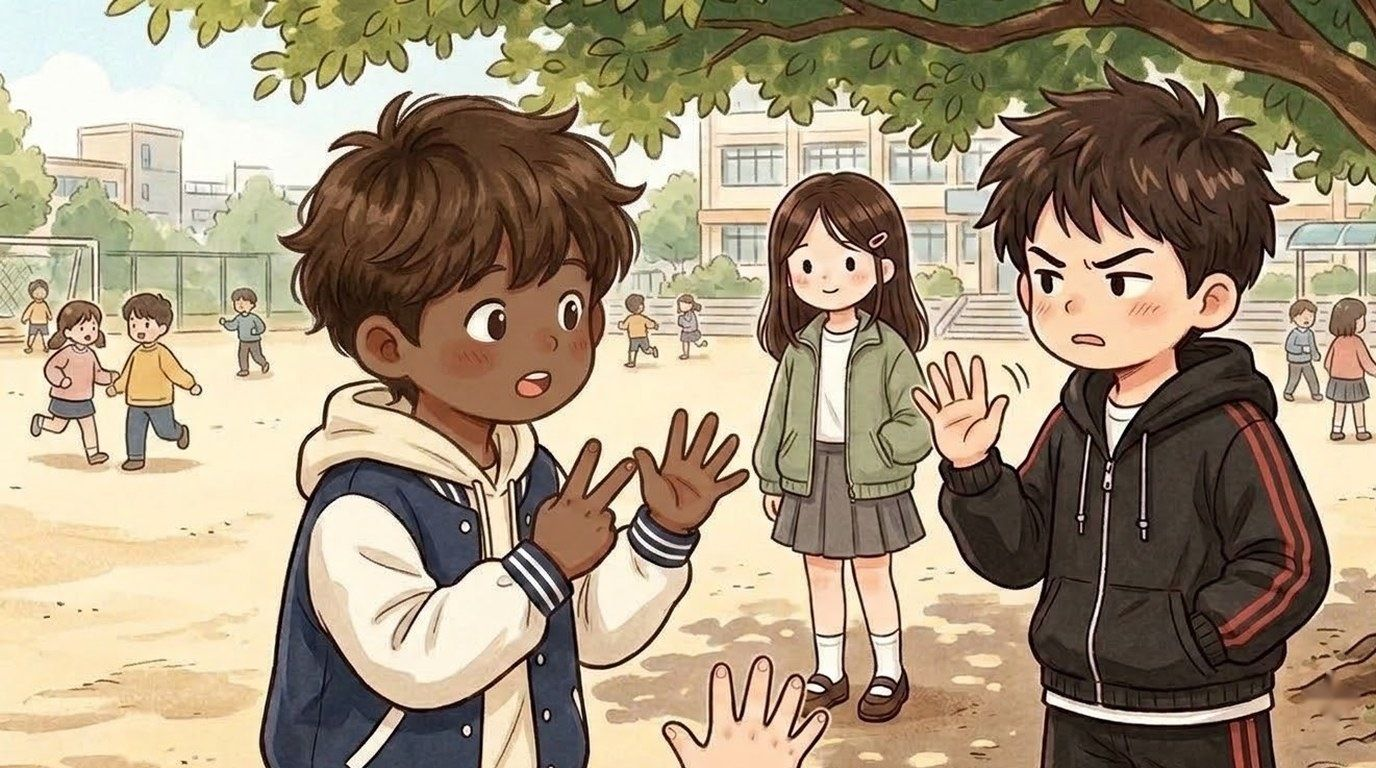
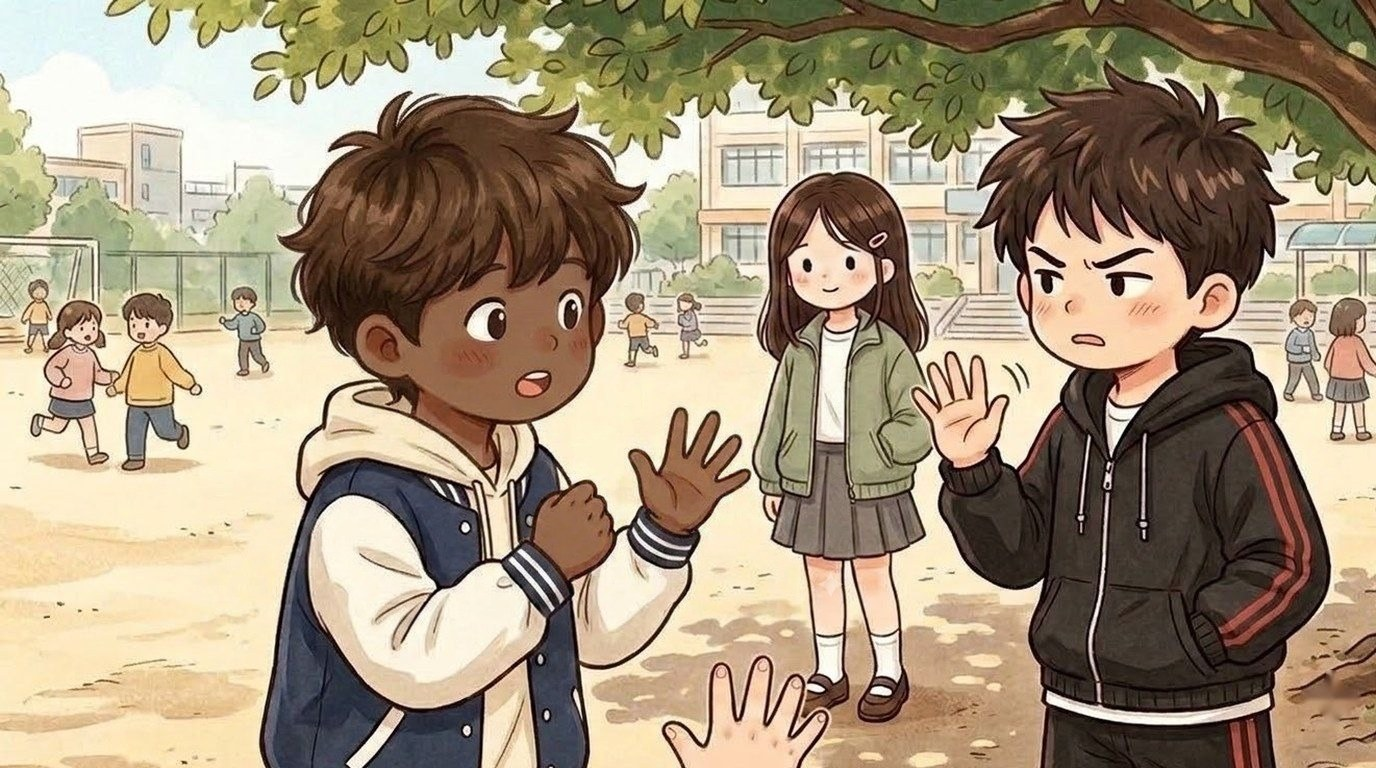
Seah 01b: Jiho counts to five on one open hand, the other hand a fist (was seven fingers; owner's note) (BUILD 1112180013)

diff --git a/index.html b/index.html
@@ -119,14 +119,14 @@ body,button{word-break:keep-all;overflow-wrap:break-word}
 <div id="fader"></div>
 <script>
 // same address, newest version: if the page this phone has kept is older than the one online, fetch the new one and reopen
-const BUILD='1112161123';
+const BUILD='1112180013';
 try{fetch(location.pathname,{cache:'no-store'}).then(r=>r.text()).then(t=>{const m=t.match(/const BUILD='(\d+)'/);if(m&&m[1]!==BUILD&&sessionStorage.getItem('upd')!==m[1]){sessionStorage.setItem('upd',m[1]);fetch(location.pathname,{cache:'reload'}).then(()=>location.reload())}}).catch(()=>{})}catch(e){}
 </script>
-<script src="i18n.js?v=1112161123"></script>
-<script src="i18n_prologue_v2.js?v=1112161123"></script>
-<script src="day2/i18n_engine.js?v=1112161123"></script>
-<script src="day2/data.js?v=1112161123"></script>
-<script src="day3/data.js?v=1112161123"></script>
+<script src="i18n.js?v=1112180013"></script>
+<script src="i18n_prologue_v2.js?v=1112180013"></script>
+<script src="day2/i18n_engine.js?v=1112180013"></script>
+<script src="day2/data.js?v=1112180013"></script>
+<script src="day3/data.js?v=1112180013"></script>
 <script>
 // ---------- data ----------
 const MW=1672,MH=941,KID=180;
@@ -183,15 +183,16 @@ let LANG='id',UI='ko',W='';
 // tr: Korean source line -> line in the player's language, with {w} (taught word) and {L} (taught language) filled in
 // a line can end with a hidden scene mark, {~toparent} etc.: the same Korean said in a scene that needs its own translation (진짜? to Mom vs to a friend).
 // The mark is never shown; a marked line with no translation of its own falls back to the unmarked one.
-function tr(s){if(s==null)return s;const s0=typeof s==='string'&&s.indexOf('{~')>=0?s.replace(/\{~[a-z]+\}/g,''):s;let t=UI==='ko'?s0:((window.T&&T[UI]&&(T[UI][s]??T[UI][s0]))??s0);if(typeof t==='string'&&t.indexOf('{~')>=0)t=t.replace(/\{~[a-z]+\}/g,'');if(UI!=='ko'&&t!==s0&&typeof t==='string')t=t.replace(/\{(m|d|w|@[a-z_]+)\|[^}]*\}/g,'{$1}');// a Korean particle ({@k|을}) left in a translation is dropped
+function tr(s){if(s==null)return s;const s0=typeof s==='string'&&s.indexOf('{~')>=0?s.replace(/\{~[a-z]+\}/g,''):s;let G=null;try{G=window.T&&T[UI+(HERO==='hero_m'?'_m':'_f')]}catch(e){}// (11/12 owner) a line whose wording depends on the hero being a boy or a girl has its own translation in T.<lang>_m / T.<lang>_f; it wins over T.<lang>
+ let t=UI==='ko'?s0:((G&&(G[s]??G[s0]))??(window.T&&T[UI]&&(T[UI][s]??T[UI][s0]))??s0);if(typeof t==='string'&&t.indexOf('{~')>=0)t=t.replace(/\{~[a-z]+\}/g,'');if(UI!=='ko'&&t!==s0&&typeof t==='string')t=t.replace(/\{(m|d|w|@[a-z_]+)\|[^}]*\}/g,'{$1}');// a Korean particle ({@k|을}) left in a translation is dropped
  const L=UI==='ko'?LANGS[LANG].name:((T[UI]&&T[UI]['한국어'])||'Korean');return oneWord(t).replace(/\{L\}/g,L)}
 // taught words in a line: a {@key}/{w}/{m} shows in the learned language when it is one of today's mission words (TEACH: every find of the scene
 // being played, the morning, the review) or a word already learned (FOUND); a word taught on a later day shows in the player's own language
 // (Korean: the noun, particle fixed). Every word shown in the learned language is heard, one after another.
 let TEACH=[],LASTW=[],LINEW=[];
 function oneWord(t){const ok=k=>(typeof FOUND!=='undefined'&&FOUND.has(k))||(TEACH||[]).includes(k)||(typeof FIND!=='undefined'&&FIND===k);LASTW=[];
- // English screen: a plural s written after a slot ({@pencil}s) is dropped when the slot shows the Korean word (연필, not 연필s)
- if(UI==='en')t=t.replace(/\{(@[a-z_]+|w|m|d)\}s(?![A-Za-z])/g,(m0,g)=>ok(g==='w'?'notebook':g==='d'?'dad':g==='m'?'mom':g.slice(1))?'{'+g+'}':m0);
+ // English screen: a plural s / es written after a slot ({@pencil}s, {@box}es) is dropped when the slot shows the Korean word (연필, not 연필s)
+ if(UI==='en')t=t.replace(/\{(@[a-z_]+|w|m|d)\}(?:es|s)(?![A-Za-z])/g,(m0,g)=>ok(g==='w'?'notebook':g==='d'?'dad':g==='m'?'mom':g.slice(1))?'{'+g+'}':m0);
  return t.replace(/\{@([a-z_]+)\}|\{w\}|\{m\}|\{d\}/g,(m0,k0)=>{const k=k0||(m0==='{w}'?'notebook':m0==='{d}'?'dad':'mom');if(ok(k)){if(!LASTW.includes(k))LASTW.push(k);return k==='notebook'?(W||LANGS[LANG].words.notebook):LANGS[LANG].words[k]||k}
   const w=(LANGS[UI]&&LANGS[UI].words[k])||LANGS.ko.words[k]||k;return UI==='ko'?w+'\u0000':w}).replace(/([가-힣])\u0000(으로|로|은|는|을|를|이|가|과|와|이었|였)(?![가-힣])|([가-힣])\u0000(으로|로|이었|였)/g,(m,a,p,a2,p2)=>{a=a||a2;p=p||p2;
   const c=a.charCodeAt(0)-0xAC00,jong=c%28,J={'으로':['으로','로'],'로':['으로','로'],'은':['은','는'],'는':['은','는'],'을':['을','를'],'를':['을','를'],'이':['이','가'],'가':['이','가'],'과':['과','와'],'와':['과','와'],'이었':['이었','였'],'였':['이었','였']}[p];
@@ -573,37 +574,37 @@ function pickHero(){const m=document.getElementById('modal'),c=document.getEleme
  c.innerHTML=`<h2>${tr('전학생 반장되기')}</h2><p>${tr('한국말이 아직 서툰 전학생,<br>반장 선거에 나가다.')}</p><p style="margin-top:14px">${tr('누구로 할까요?')}</p>${(()=>{const s=loadSave();return s&&s.day>=2&&s.mode===UI+'-'+LANG?`<p><button class="big" id="cont">${tr('{n}일차부터 이어 하기').replace('{n}',s.day)}</button></p>`:''})()}<div class="pick heroes"><button data-h="hero_f"><img src="faces/hero_f_smile.jpg" alt="여자 주인공">${heroName(1)}</button><button data-h="hero_m"><img src="faces/hero_m_smile.jpg" alt="남자 주인공">${heroName(0)}</button></div>`;
  m.classList.add('on');{const cb=document.getElementById('cont');if(cb)cb.onclick=()=>{const s=loadSave();HERO=s.hero;Object.assign(HEART,s.heart||{});(s.found||[]).forEach(k=>FOUND.add(k));HEART_D1={...HEART};chime();(typeof contGame==='function'?contGame(s):startDay(Math.min(s.day,Object.keys(window.D3||{}).length?3:2)))}}c.querySelectorAll('.pick button').forEach(b=>b.onclick=()=>{HERO=b.dataset.h;m.classList.remove('on');chime();bgm('day');load('home_am');say([['nar','','이사 온 다음 날 아침. 아직 풀지 못한 상자들이 쌓여 있다.'],['think','sad','(오늘부터 새 학교야. 여기 말도 아직 서툰데…….)'],['think','smile','({m}한테 인사하고 학교 가야지.)']],morning)})}
 </script>
-<script src="day2/engine.js?v=1112161123"></script>
-<script src="day2/ep_minho.js?v=1112161123"></script>
-<script src="day2/meet.js?v=1112161123"></script>
-<script src="day2/ep_sua.js?v=1112161123"></script>
-<script src="day2/ep_hangyeol.js?v=1112161123"></script>
-<script src="day2/ep_siwoo.js?v=1112161123"></script>
-<script src="day2/ep_haram.js?v=1112161123"></script>
-<script src="day2/ep_jiho.js?v=1112161123"></script>
-<script src="day2/ep_hyeeun.js?v=1112161123"></script>
-<script src="day2/ep_haneul.js?v=1112161123"></script>
-<script src="day2/ep_junho.js?v=1112161123"></script>
-<script src="day2/ep_yuna.js?v=1112161123"></script>
-<script src="day2/ep_yena.js?v=1112161123"></script>
-<script src="day2/ep_haeun.js?v=1112161123"></script>
-<script src="day2/ep_youngmin.js?v=1112161123"></script>
-<script src="day2/ep_seah.js?v=1112161123"></script>
-<script src="day2/ep_jihoon.js?v=1112161123"></script>
-<script src="words_ja_ru.js?v=1112161123"></script>
-<script src="day2/mybag.js?v=1112161123"></script>
-<script src="day2/wordpics.js?v=1112161123"></script>
-<script src="day2/spots.js?v=1112161123"></script>
-<script src="day2/textfit.js?v=1112161123"></script>
-<script src="day2/tester.js?v=1112161123"></script>
-<script src="day2/ux.js?v=1112161123"></script>
-<script src="day2/tapword.js?v=1112161123"></script>
-<script src="day2/review.js?v=1112161123"></script>
-<script src="day2/plane.js?v=1112161123"></script>
-<script src="day2/bubble.js?v=1112161123"></script>
-<script src="day2/ep_ending.js?v=1112161123"></script>
-<script src="day2/ending.js?v=1112161123"></script>
-<script src="day2/stats.js?v=1112161123"></script>
+<script src="day2/engine.js?v=1112180013"></script>
+<script src="day2/ep_minho.js?v=1112180013"></script>
+<script src="day2/meet.js?v=1112180013"></script>
+<script src="day2/ep_sua.js?v=1112180013"></script>
+<script src="day2/ep_hangyeol.js?v=1112180013"></script>
+<script src="day2/ep_siwoo.js?v=1112180013"></script>
+<script src="day2/ep_haram.js?v=1112180013"></script>
+<script src="day2/ep_jiho.js?v=1112180013"></script>
+<script src="day2/ep_hyeeun.js?v=1112180013"></script>
+<script src="day2/ep_haneul.js?v=1112180013"></script>
+<script src="day2/ep_junho.js?v=1112180013"></script>
+<script src="day2/ep_yuna.js?v=1112180013"></script>
+<script src="day2/ep_yena.js?v=1112180013"></script>
+<script src="day2/ep_haeun.js?v=1112180013"></script>
+<script src="day2/ep_youngmin.js?v=1112180013"></script>
+<script src="day2/ep_seah.js?v=1112180013"></script>
+<script src="day2/ep_jihoon.js?v=1112180013"></script>
+<script src="words_ja_ru.js?v=1112180013"></script>
+<script src="day2/mybag.js?v=1112180013"></script>
+<script src="day2/wordpics.js?v=1112180013"></script>
+<script src="day2/spots.js?v=1112180013"></script>
+<script src="day2/textfit.js?v=1112180013"></script>
+<script src="day2/tester.js?v=1112180013"></script>
+<script src="day2/ux.js?v=1112180013"></script>
+<script src="day2/tapword.js?v=1112180013"></script>
+<script src="day2/review.js?v=1112180013"></script>
+<script src="day2/plane.js?v=1112180013"></script>
+<script src="day2/bubble.js?v=1112180013"></script>
+<script src="day2/ep_ending.js?v=1112180013"></script>
+<script src="day2/ending.js?v=1112180013"></script>
+<script src="day2/stats.js?v=1112180013"></script>
 <script>
 // the goal shows big for a few seconds, then folds into a small pill (tap it to open it again)
 {const g=document.getElementById('goal');let t=null;const big=()=>{g.classList.remove('mini');clearTimeout(t);t=setTimeout(()=>g.classList.add('mini'),4000)};
